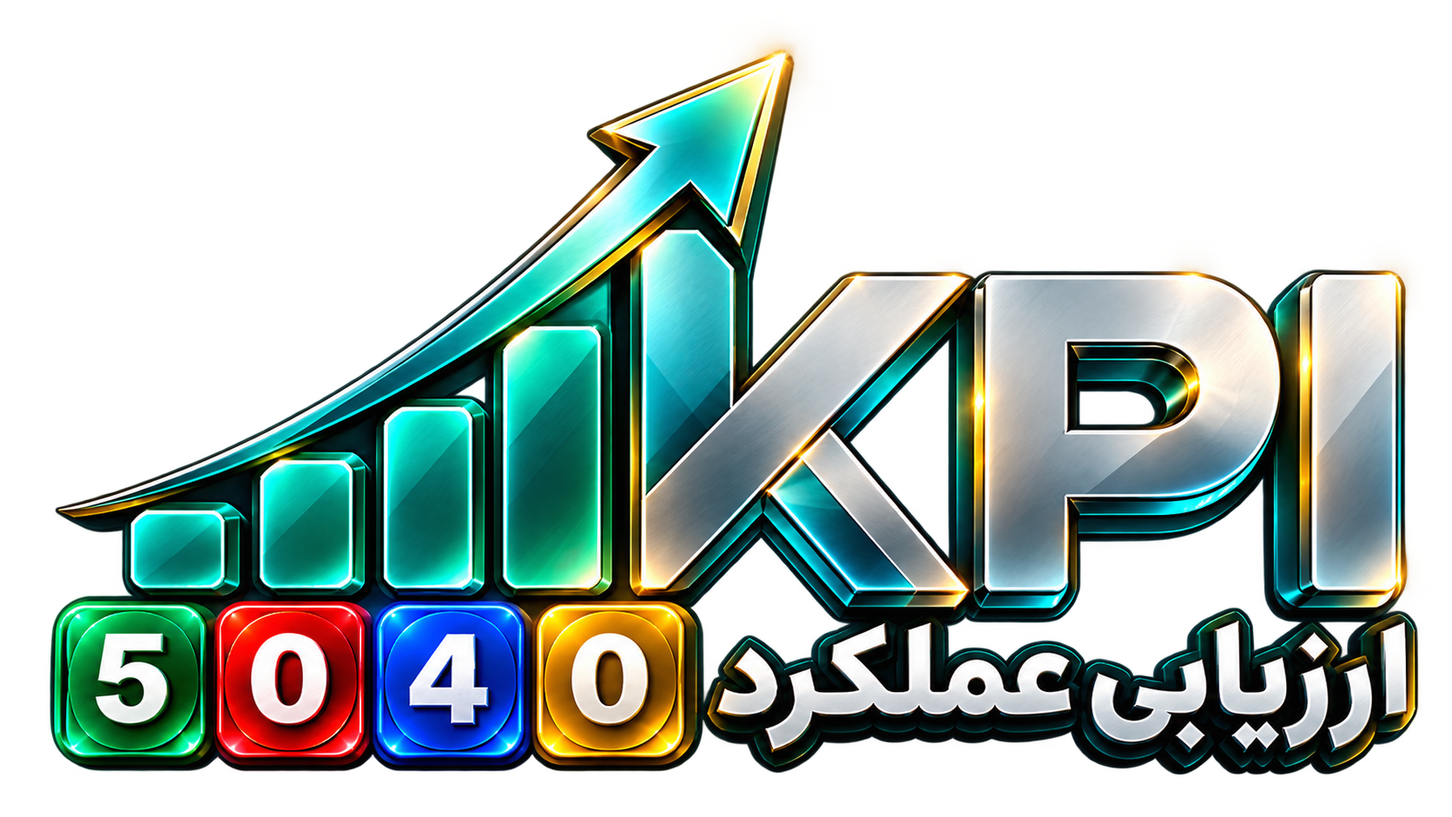
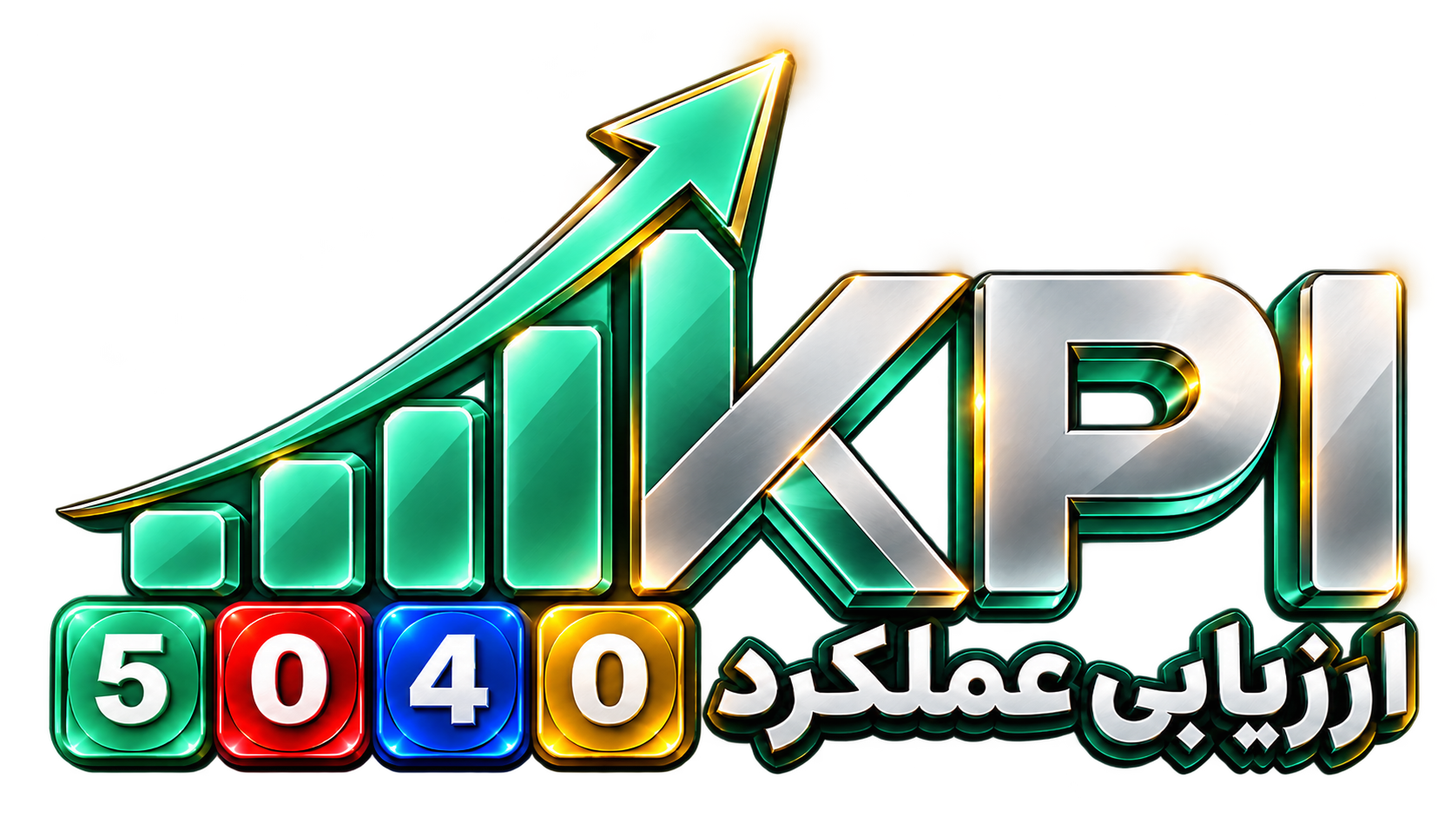
Add peer survey Excel imports and refine panel branding and account layout
Add admin-only peer response imports with previews, confirmation, anonymous storage, quorum checks, rollback and idempotent retries.

Match logo greens to the theme and arrange account provisioning in two responsive three-column rows.

Validation: 65 automated tests, 156 syntax checks, 9 import browser checks, 8 account layout checks and 64 browser regression checks passed using synthetic data.

Changed region(s): [[0.0311, 0.0308, 0.9958, 0.9554], [0.8091, 0.3082, 0.8402, 0.339], [0.5601, 0.339, 0.5913, 0.3698]]

diff --git a/src/account-security-ui.js b/src/account-security-ui.js
@@ -11,14 +11,16 @@
   </div>
   <section id="accountManagement" class="panel settings-card account-security-card" hidden>
    <header class="account-section-heading"><h2>مدیریت حسابهای ورود</h2><p>برای فرد ثبتشده حساب بسازید یا اطلاعات ورود او را ویرایش کنید. صاحب حساب در اولین ورود، رمز موقت را تغییر میدهد.</p></header>
-   <div class="account-defaults"><div><h3>تعریف گروهی حسابها</h3><p>برای افراد فاقد حساب، نام کاربری و رمز موقت اختصاصی ساخته میشود؛ حسابهای موجود و افراد تسویهشده تغییری نمیکنند. اطلاعات ورود در یک فایل قابل دانلود تحویل داده میشود.</p></div><div class="account-default-buttons"><button type="button" id="createDefaultAccounts" class="secondary-button">ایجاد حساب پیشفرض برای همه</button><button type="button" id="downloadDefaultAccounts" class="secondary-button" hidden>دانلود اطلاعات حسابهای ساختهشده</button></div></div>
    <form id="accountProvisionForm">
-    <div class="account-fields">
+    <div class="account-provision-top">
+     <div class="account-defaults"><h3>تعریف گروهی حسابها</h3><div class="account-default-buttons"><button type="button" id="createDefaultAccounts" class="secondary-button">ایجاد حساب پیشفرض برای همه</button><button type="button" id="downloadDefaultAccounts" class="secondary-button" hidden>دانلود اطلاعات حسابهای ساختهشده</button></div><details class="account-defaults-help"><summary>راهنمای تعریف گروهی</summary><p>برای افراد فاقد حساب، نام کاربری و رمز موقت اختصاصی ساخته میشود؛ حسابهای موجود و افراد تسویهشده تغییری نمیکنند. اطلاعات ورود در یک فایل قابل دانلود تحویل داده میشود.</p></details></div>
      <label>انتخاب فرد<select name="userId" required></select></label>
      <label>نام کاربری<input name="username" dir="ltr" autocomplete="off" autocapitalize="none" spellcheck="false" minlength="3" maxlength="128" placeholder="مثلاً user.name" required></label>
-     <label class="account-field-wide">رمز موقت<input name="password" type="password" dir="ltr" autocomplete="new-password" minlength="12" maxlength="128" aria-describedby="accountPasswordHint"><small id="accountPasswordHint">برای حساب جدید، رمز ۱۲ تا ۱۲۸ نویسهای تعیین کنید؛ هنگام ویرایش، برای حفظ رمز فعلی خالی بگذارید.</small></label>
     </div>
-    <div class="account-form-actions"><label class="account-enabled"><input type="checkbox" name="enabled" checked><span>حساب فعال باشد</span></label><button type="submit" class="primary-button">ذخیره حساب</button></div>
+    <div class="account-provision-bottom">
+     <label>رمز موقت<input name="password" type="password" dir="ltr" autocomplete="new-password" minlength="12" maxlength="128" aria-describedby="accountPasswordHint"><small id="accountPasswordHint">برای حساب جدید، رمز ۱۲ تا ۱۲۸ نویسهای تعیین کنید؛ هنگام ویرایش، برای حفظ رمز فعلی خالی بگذارید.</small></label>
+     <label class="account-enabled"><input type="checkbox" name="enabled" checked><span>حساب فعال باشد</span></label><button type="submit" class="primary-button">ذخیره حساب</button>
+    </div>
     <p class="account-delivery-note">رمز موقت را فقط از مسیر امن به صاحب حساب تحویل دهید.</p>
    </form>
    <section class="account-list-section" aria-labelledby="accountListTitle"><h3 id="accountListTitle">حسابهای ثبتشده</h3><p class="account-delivery-note">رمز فعلی قابل نمایش نیست. برای تعیین رمز موقت جدید، «تغییر» را بزنید و رمز جدید را در فرم وارد و ذخیره کنید.</p><div id="accountCredentialsList"></div></section>
@@ -40,7 +42,7 @@
  downloadDefaults.onclick=downloadCredentials;
  defaultsButton.onclick=async()=>{
   if(busy||workflow()?.user?.role!=='hr')return;
-  busy=true;defaultsButton.disabled=true;provision.querySelector('button').disabled=true;const current=version;
+  busy=true;defaultsButton.disabled=true;provision.querySelector('[type=submit]').disabled=true;const current=version;
   status.textContent='در حال ساخت حسابهای فاقد نام کاربری؛ لطفاً منتظر بمانید…';
   try{
    const result=await workflow().post('/api/auth/accounts/defaults',{});if(current!==version)return;
@@ -51,7 +53,7 @@
     try{downloadCredentials();}catch{status.textContent='حسابها ساخته شدند؛ برای دریافت رمزها از دکمه دانلود اطلاعات استفاده کنید.';}
    }
    await refresh();status.textContent=result.created?result.created+' حساب ساخته شد. فایل اطلاعات ورود را نگه دارید و رمز هر فرد را فقط به خود او تحویل دهید؛ پس از خروج یا بارگذاری دوباره، رمزهای موقت در این صفحه قابل دریافت نیستند.':'همهٔ افراد واجد شرایط حساب دارند؛ حساب جدیدی ساخته نشد.';
-  }catch(error){if(current===version)status.textContent=error.message;}finally{busy=false;defaultsButton.disabled=false;provision.querySelector('button').disabled=false;}
+  }catch(error){if(current===version)status.textContent=error.message;}finally{busy=false;defaultsButton.disabled=false;provision.querySelector('[type=submit]').disabled=false;}
  };
  function selectAccount(){const row=rows.find(r=>r.userId===provision.elements.userId.value);provision.elements.username.value=row?.username||'';provision.elements.password.value='';provision.elements.enabled.checked=row?.enabled!==false;}
  provision.elements.userId.onchange=selectAccount;
@@ -72,7 +74,7 @@
  }
  function sessionChanged(){clear();nav.hidden=!workflow()?.user||workflow().demo&&!workflow().canManageAccounts;passwordForm.parentElement.hidden=workflow()?.demo!==false;management.hidden=true;if(workflow()?.mustChangePassword)status.textContent='برای ادامه استفاده از پنل، ابتدا رمز موقت را تغییر دهید.';}
  passwordForm.onsubmit=async event=>{event.preventDefault();if(busy||!passwordForm.reportValidity())return;if(passwordForm.elements.password.value!==passwordForm.elements.confirmation.value){status.textContent='تکرار رمز جدید یکسان نیست.';return;}busy=true;const button=passwordForm.querySelector('button');button.disabled=true;try{await workflow().post('/api/auth/password',{currentPassword:passwordForm.elements.currentPassword.value,password:passwordForm.elements.password.value});passwordForm.reset();status.textContent='رمز تغییر کرد؛ در حال بارگذاری دوباره…';window.location.replace('/');}catch(error){status.textContent=error.message;}finally{busy=false;button.disabled=false;}};
- provision.onsubmit=async event=>{event.preventDefault();if(busy||!provision.reportValidity())return;busy=true;const button=provision.querySelector('button'),userId=provision.elements.userId.value;button.disabled=true;try{await workflow().post('/api/auth/accounts',{userId,username:provision.elements.username.value,enabled:provision.elements.enabled.checked,...(provision.elements.password.value?{password:provision.elements.password.value}:{})});provision.elements.password.value='';if(userId===workflow().user.id&&!workflow().demo){window.location.replace('/login.html');return;}await refresh();status.textContent='حساب ذخیره شد؛ نشستهای شخصی قبلی این فرد دیگر معتبر نیستند.';}catch(error){status.textContent=error.message;}finally{busy=false;button.disabled=false;}};
+ provision.onsubmit=async event=>{event.preventDefault();if(busy||!provision.reportValidity())return;busy=true;const button=provision.querySelector('[type=submit]'),userId=provision.elements.userId.value;button.disabled=true;try{await workflow().post('/api/auth/accounts',{userId,username:provision.elements.username.value,enabled:provision.elements.enabled.checked,...(provision.elements.password.value?{password:provision.elements.password.value}:{})});provision.elements.password.value='';if(userId===workflow().user.id&&!workflow().demo){window.location.replace('/login.html');return;}await refresh();status.textContent='حساب ذخیره شد؛ نشستهای شخصی قبلی این فرد دیگر معتبر نیستند.';}catch(error){status.textContent=error.message;}finally{busy=false;button.disabled=false;}};
  window.addEventListener('panel:session',sessionChanged);window.addEventListener('panel:password-required',sessionChanged);window.addEventListener('panel:view',event=>{if(event.detail==='account-security')refresh();});
  window.PanelAccountSecurity={get working(){return busy;}};
 })();

diff --git a/src/peer-survey-import-ui.js b/src/peer-survey-import-ui.js
@@ -1,0 +1,52 @@
+(() => {
+ const columns=['کد پرسنلی فرد هدف','کد پرسنلی پاسخدهنده','امتیاز'];
+ const esc=value=>String(value??'').replace(/[&<>"']/g,c=>({'&':'&amp;','<':'&lt;','>':'&gt;','"':'&quot;',"'":'&#39;'}[c]));
+ const fa=new Intl.NumberFormat('fa-IR');
+ window.PanelPeerSurveyImport={mount({container,loadExcelLibrary,verifyZip,attachPicker,compactActions,refresh,onBusy}){
+  const panel=document.createElement('section');panel.id='peerSurveyExcelPanel';panel.className='panel settings-card lifecycle-section';panel.hidden=true;
+  panel.innerHTML='<h2>ورود گروهی پاسخهای نظرسنجی همکاران با اکسل</h2><p class="workflow-muted">برای هر پاسخ یک سطر با کد پرسنلی فرد هدف، کد پرسنلی پاسخدهنده و امتیاز ۰ تا ۱۰۰ وارد کنید. ابتدا نظرسنجی را منتشر کنید؛ جامعهٔ مجاز، مهلت و حدنصاب مشارکت مانند ثبت تکی کنترل میشوند. فایل اصلی نگهداری نمیشود.</p><p id="peerImportPeriod" class="formula-note"></p><div class="design-form-actions"><button type="button" class="secondary-button" id="downloadPeerTemplate">دریافت قالب اکسل</button></div><form id="peerExcelForm"><label>فایل پاسخها<input name="file" type="file" accept=".xlsx" required></label><button class="primary-button">اعتبارسنجی و پیشنمایش</button></form><div id="peerExcelResult" role="status" aria-live="polite"></div><div class="design-form-actions"><button type="button" class="primary-button" id="confirmPeerImport" hidden>تأیید ثبت پاسخهای معتبر</button></div><details class="activity-criteria"><summary>آرشیو ورود گروهی پاسخها</summary><div id="peerImportArchive"></div></details>';
+  container.append(panel);
+  attachPicker('peerExcelForm','فایل پاسخها · یک برگه XLSX تا ۲ مگابایت و ۵۰۰ پاسخ','peerExcelFileName','انتخاب اکسل پاسخهای نظرسنجی همکاران');
+  compactActions('downloadPeerTemplate','peerExcelForm','peer-import-actions');
+  const form=panel.querySelector('form'),output=panel.querySelector('#peerExcelResult'),confirm=panel.querySelector('#confirmPeerImport'),archive=panel.querySelector('#peerImportArchive');
+  const api=()=>window.PanelWorkflow,period=()=>document.querySelector('#workflowPeriod').value;
+  let version=0,prepared=null,busy=false;
+  function reset(){version++;prepared=null;confirm.hidden=true;output.replaceChildren();archive.replaceChildren();form.reset();sync();}
+  function sync(){panel.hidden=api()?.user?.role!=='hr';panel.querySelector('#peerImportPeriod').textContent='فصل ورود پاسخها: '+api().quarterLabel(period());}
+  function setBusy(value){busy=value;onBusy(value);for(const control of panel.querySelectorAll('button,input'))control.disabled=value;}
+  const quarantine=rows=>rows.length?'<div class="workflow-table-wrap"><table class="workflow-table"><thead><tr><th>سطر اکسل</th><th>علت ثبتنشدن</th></tr></thead><tbody>'+rows.map(r=>'<tr><td>'+fa.format(r.rowNumber)+'</td><td>'+esc(r.reason)+'</td></tr>').join('')+'</tbody></table></div>':'';
+  async function history(){if(panel.hidden)return;const v=version;try{const rows=await api().api('/api/org/surveys/imports');if(v!==version)return;archive.innerHTML=rows.filter(r=>r.period===period()).map(r=>'<article class="proposal-item"><p>'+esc(r.fileName)+' · '+esc(new Date(r.createdAt).toLocaleString('fa-IR'))+'</p><p>ثبتشده: '+fa.format(r.importedCount)+' · ثبتنشده: '+fa.format(r.quarantined.length)+' · نظرسنجی تکمیلشده: '+fa.format(r.completedCount)+'</p>'+quarantine(r.quarantined)+'</article>').join('')||'<p class="workflow-muted">هنوز فایلی برای این فصل ثبت نشده است.</p>';}catch(e){if(v===version)archive.textContent=e.message;}}
+  panel.querySelector('#downloadPeerTemplate').onclick=async()=>{const v=version;try{const XLSX=await loadExcelLibrary();if(v!==version||panel.hidden)return;const book=XLSX.utils.book_new(),sheet=XLSX.utils.aoa_to_sheet([columns]);sheet['!cols']=[{wch:28},{wch:30},{wch:16}];XLSX.utils.book_append_sheet(book,sheet,'پاسخ نظرسنجی');const url=URL.createObjectURL(new Blob([XLSX.write(book,{bookType:'xlsx',type:'array'})],{type:'application/vnd.openxmlformats-officedocument.spreadsheetml.sheet'})),link=document.createElement('a');link.href=url;link.download='peer-survey-responses-template.xlsx';link.click();setTimeout(()=>URL.revokeObjectURL(url),1000);}catch(e){if(v===version)output.textContent=e.message;}};
+  form.elements.file.addEventListener('change',()=>{version++;prepared=null;confirm.hidden=true;output.replaceChildren();});
+  form.onsubmit=async event=>{
+   event.preventDefault();if(busy||panel.hidden)return;const v=version,at=period(),file=form.elements.file.files[0];prepared=null;confirm.hidden=true;setBusy(true);
+   try{
+    if(!file||!file.name.toLowerCase().endsWith('.xlsx')||file.size>2*1024*1024)throw Error('فقط فایل XLSX تا ۲ مگابایت پذیرفته میشود.');
+    const bytes=new Uint8Array(await file.arrayBuffer());verifyZip(bytes);const XLSX=await loadExcelLibrary();
+    const book=XLSX.read(bytes,{type:'array',cellFormula:true,cellDates:false,sheetRows:502,bookVBA:false});
+    if(book.SheetNames.length!==1)throw Error('فایل باید فقط یک برگه پاسخ داشته باشد.');
+    const sheet=book.Sheets[book.SheetNames[0]],range=XLSX.utils.decode_range(sheet['!fullref']||sheet['!ref']||'A1');
+    if(range.e.r>500||range.e.c>2)throw Error('حداکثر ۵۰۰ پاسخ و دقیقاً سه ستون قالب مجاز است.');
+    if(Object.values(sheet).some(c=>c&&typeof c==='object'&&c.f))throw Error('فرمول مجاز نیست؛ فقط مقدار ثابت وارد کنید.');
+    const data=XLSX.utils.sheet_to_json(sheet,{header:1,raw:false,defval:'',blankrows:true});while(data.length&&data.at(-1).every(v=>!String(v).trim()))data.pop();
+    if(JSON.stringify(data[0]?.map(v=>String(v).trim()))!==JSON.stringify(columns))throw Error('عنوان ستونها با قالب نمونه مطابقت ندارد.');
+    if(data.length<2||data.length>501)throw Error('فایل باید ۱ تا ۵۰۰ پاسخ داشته باشد.');
+    const input={period:at,batchKey:crypto.randomUUID(),fileName:file.name,rows:data.slice(1).map(r=>({targetCode:String(r[0]??'').trim(),respondentCode:String(r[1]??'').trim(),score:String(r[2]??'').trim()}))};
+    if(v!==version||at!==period()||panel.hidden)return;
+    const result=await api().post('/api/org/surveys/import',{...input,preview:true});if(v!==version||at!==period()||panel.hidden)return;
+    output.innerHTML='<p>پاسخ معتبر: '+fa.format(result.importedCount)+' · ثبتنشده: '+fa.format(result.quarantined.length)+' · نظرسنجی: '+fa.format(result.campaignCount)+'</p>'+quarantine(result.quarantined)+'<p class="workflow-muted">هنوز پاسخی ثبت نشده است. با تأیید، فقط پاسخهای معتبر ثبت میشوند.</p>';
+    prepared={...input,fingerprint:result.fingerprint,confirm:true};confirm.hidden=!result.importedCount;
+   }catch(e){if(v===version)output.textContent=e.message;}finally{setBusy(false);}
+  };
+  confirm.onclick=async()=>{
+   if(busy||!prepared||panel.hidden||prepared.period!==period())return;const v=version,input=prepared;setBusy(true);
+   try{const result=await api().post('/api/org/surveys/import',input);if(v!==version||panel.hidden)return;prepared=null;confirm.hidden=true;form.reset();output.innerHTML='<p>ثبتشده: '+fa.format(result.importedCount)+' · ثبتنشده: '+fa.format(result.quarantined.length)+' · نظرسنجی تکمیلشده: '+fa.format(result.completedCount)+'</p>'+quarantine(result.quarantined);await refresh();await history();}
+   catch(e){if(v===version){output.textContent=e.message;/* A lost response can safely retry the same batch. */}}
+   finally{setBusy(false);}
+  };
+  window.addEventListener('panel:session',reset);window.addEventListener('panel:password-required',reset);
+  document.querySelector('#workflowPeriod').addEventListener('change',()=>{reset();if(container.classList.contains('active'))history();});
+  window.addEventListener('panel:view',event=>{sync();if(event.detail==='surveys'&&!panel.hidden)history();});
+  sync();
+ }};
+})();

diff --git a/src/styles.css b/src/styles.css
@@ -1229,6 +1229,30 @@ select option,select optgroup { background: var(--color-select-option); color: v
 #view-account-security .account-defaults p { margin:0; color:var(--color-text-secondary); font-size:var(--text-xs); line-height:1.9; }
 #view-account-security .account-default-buttons { display:flex; gap:10px; flex-wrap:wrap; }
 #view-account-security .account-default-buttons button { white-space:normal; max-width:100%; }
+#view-account-security .account-provision-top,
+#view-account-security .account-provision-bottom { display:grid; grid-template-columns:repeat(3,minmax(0,1fr)); align-items:start; gap:20px; }
+#view-account-security .account-provision-bottom { margin-top:20px; padding-top:18px; border-top:1px solid var(--color-border); }
+#view-account-security .account-provision-top > label,
+#view-account-security .account-provision-bottom > label:not(.account-enabled) { display:flex; flex-direction:column; gap:8px; min-width:0; margin:0; font-size:var(--text-xs); font-weight:600; }
+#view-account-security #accountProvisionForm input:not([type="checkbox"]),
+#view-account-security #accountProvisionForm select { width:100%; min-width:0; max-width:100%; margin:0; box-sizing:border-box; font-weight:400; }
+#view-account-security #accountProvisionForm input[dir="ltr"] { text-align:left; }
+#view-account-security .account-provision-top .account-defaults { display:grid; grid-template-columns:minmax(0,1fr); justify-content:stretch; align-items:start; gap:8px; margin:0; padding:0; border:0; background:none; }
+#view-account-security .account-provision-top .account-defaults h3 { margin:0; font-size:var(--text-xs); font-weight:600; }
+#view-account-security .account-provision-top .account-default-buttons { display:grid; gap:8px; }
+#view-account-security .account-provision-top .account-default-buttons button { width:100%; min-height:42px; }
+#view-account-security .account-defaults-help { color:var(--color-text-secondary); font-size:var(--text-xs); }
+#view-account-security .account-defaults-help summary { cursor:pointer; }
+#view-account-security .account-defaults-help p { margin-top:8px; }
+#view-account-security .account-provision-bottom small { color:var(--color-text-secondary); font-size:var(--text-xs); font-weight:400; line-height:1.8; }
+#view-account-security .account-provision-bottom > .account-enabled { display:flex; flex-direction:row; align-items:center; justify-content:center; gap:9px; min-height:42px; margin:26px 0 0; font-size:var(--text-sm); cursor:pointer; }
+#view-account-security .account-provision-bottom > button { justify-self:start; min-height:42px; margin:26px 0 0; }
+@media(max-width:900px) {
+ #view-account-security .account-provision-top,
+ #view-account-security .account-provision-bottom { grid-template-columns:minmax(0,1fr); gap:16px; }
+ #view-account-security .account-provision-bottom > .account-enabled { justify-content:flex-start; margin:0; }
+ #view-account-security .account-provision-bottom > button { margin:0; }
+}
 @media(max-width:680px) { #view-account-security .account-security-card { padding:18px; } #view-account-security .account-fields { grid-template-columns:minmax(0,1fr); gap:16px; } #view-account-security .workflow-table td,#view-account-security .workflow-table th { padding:10px 8px; } }
 #settlementForm[hidden], #positionForm[hidden] { display:none; }
 #designPublishedPanel .workflow-state[data-status] { display:inline-block; border:1px solid currentColor; color:var(--color-text-secondary); background:var(--color-surface-subtle); line-height:1.7; }

diff --git a/src/lifecycle-ui.js b/src/lifecycle-ui.js
@@ -1350,6 +1350,7 @@ const get=position=>String(row[position]??'').trim(),name=get(0),employeeCode=ge
   attachExcelPicker('personImportForm','فایل پرسنل · XLSX تا ۲ مگابایت و ۱۰۰ سطر','personExcelFileName','انتخاب فایل اکسل پرسنل');
   function compactExcelActions(templateId,formId,className){const actions=document.createElement('div');actions.className='excel-import-actions '+className;const template=$('#'+templateId),wrapper=template.closest('.design-form-actions');wrapper.before(actions);actions.append(template,$('#'+formId));wrapper.remove();}
   compactExcelActions('downloadPersonnelTemplate','personImportForm','personnel-import-actions');compactExcelActions('downloadExamTemplate','examExcelForm','exam-import-actions');
+  window.PanelPeerSurveyImport?.mount({container:$('#view-surveys'),loadExcelLibrary,verifyZip:verifyPersonnelZip,attachPicker:attachExcelPicker,compactActions:compactExcelActions,refresh:()=>refresh({section:'surveys'}),onBusy:value=>{activeWrites+=value?1:-1;}});
   $('#examImportForm').onsubmit=async event=>{event.preventDefault();const form=event.target;if(!form.elements.batchKey.value)renewExamBatchKey();const data=Object.fromEntries(new FormData(form)),rows=[{employeeCode:data.employeeCode.trim(),score:data.score.trim()}],button=form.querySelector('button');button.disabled=true;try{const result=await post('/api/org/exams/import',{quarter:data.quarter,batchKey:data.batchKey,source:'local-json',rows});message(`نتایج واردشده: ${fa.format(result.importedCount)} · قرنطینه: ${fa.format(result.quarantined?.length||0)}`);if(result.importedCount){form.reset();form.elements.quarter.value=data.quarter;fillCommonPeriods();}else renewExamBatchKey();await refresh();}catch(error){message(error.message,true);}finally{button.disabled=false;}};
   $('#examExcelForm').onsubmit=async event=>{
     event.preventDefault();const form=event.target,file=form.elements.file.files[0],button=form.querySelector('button'),output=$('#examExcelResult');try{

diff --git a/index.html b/index.html
@@ -63,11 +63,11 @@
       <div class="sidebar-resizer" id="sidebarResizer" role="separator" aria-label="تغییر عرض نوار کناری" aria-orientation="vertical" aria-valuemin="230" aria-valuemax="310" aria-valuenow="258" tabindex="0" title="برای تغییر عرض بکشید؛ دوبار کلیک برای بازنشانی"></div>
       <div class="sidebar-header">
         <div class="brand">
-          <img class="brand-art" src="src/assets/kpi-analytics-emblem.png?v=6820079875ad" alt="KPI، ارزیابی عملکرد، هلدینگ ۵۰۴۰" width="1672" height="941" />
+          <img class="brand-art" src="src/assets/kpi-analytics-emblem.png?v=7c3a3c587b20" alt="KPI، ارزیابی عملکرد، هلدینگ ۵۰۴۰" width="1672" height="941" />
         </div>
         <button class="sidebar-toggle" id="sidebarToggle" type="button" aria-label="بستن نوار کناری" aria-expanded="true" aria-controls="sidebar" title="بستن نوار کناری">
           <svg class="sidebar-panel-icon" aria-hidden="true"><use href="#i-sidebar-panel"/></svg>
-          <img class="sidebar-open-mark" src="src/assets/kpi-growth-collapsed.png?v=cda1a83e34ae" alt="" aria-hidden="true" width="1374" height="1145" />
+          <img class="sidebar-open-mark" src="src/assets/kpi-growth-collapsed.png?v=50d3941fdd71" alt="" aria-hidden="true" width="1374" height="1145" />
         </button>
       </div>
 
@@ -231,6 +231,7 @@
   <script src="src/workflow-ui.js"></script>
   <script src="src/persian-money.js"></script>
   <script src="src/persian-date-picker.js"></script>
+  <script src="src/peer-survey-import-ui.js"></script>
   <script src="src/lifecycle-ui.js"></script>
   <script src="src/score-settings-ui.js"></script>
   <script src="src/ai-log-ui.js"></script>

diff --git a/login.html b/login.html
@@ -17,7 +17,7 @@
   <div class="login-atmosphere" aria-hidden="true"></div>
   <main class="login-layout">
     <section class="login-card" aria-labelledby="loginTitle">
-      <img class="login-logo" src="src/assets/kpi-analytics-emblem.png" alt="KPI ارزیابی عملکرد 5040" width="270" height="145">
+      <img class="login-logo" src="src/assets/kpi-analytics-emblem.png?v=7c3a3c587b20" alt="KPI ارزیابی عملکرد 5040" width="270" height="145">
       <h1 id="loginTitle">ورود به پنل <bdi>KPI</bdi></h1>
       <p class="login-holding">هلدینگ <bdi>5040</bdi></p>
       <p class="login-welcome">به سیستم ارزیابی عملکرد خوش آمدید</p>

diff --git a/docs/PEER_SURVEY_IMPORT.md b/docs/PEER_SURVEY_IMPORT.md
@@ -1,0 +1,23 @@
+# ورود گروهی پاسخ نظرسنجی همکاران
+
+این قابلیت فقط در پنل مستقل فصلی و برای ادمین است؛ امتیاز نظر مدیر را تغییر نمیدهد. کارت «ورود گروهی پاسخهای نظرسنجی همکاران با اکسل» در نظرسنجی پرسنل، قالب XLSX، پیشنمایش، تأیید ثبت و آرشیو خلاصه دارد.
+
+## قالب و گردش
+
+یک برگه، سه ستون دقیق «کد پرسنلی فرد هدف»، «کد پرسنلی پاسخدهنده»، «امتیاز». حداکثر ۵۰۰ پاسخ، فایل فشرده تا ۲ مگابایت و حجم بازشده تا ۸ مگابایت با کنترل ساختار ZIP. فرمول، برگه اضافی و ستون اضافی رد میشوند. فصل از انتخابگر جاری پنل گرفته و قبل از ثبت نمایش داده میشود. اعداد فارسی و عربی و کدهای متنی قابل استفادهاند؛ کد دارای صفر ابتدایی باید در اکسل بهصورت متن حفظ شود.
+
+ادمین ابتدا کمپین فرد هدف را منتشر میکند. اعتبارسنجی و پیشنمایش هیچ پاسخی ثبت نمیکند. تأیید فقط سطرهای معتبر را وارد میکند؛ سطرهای دیگر همراه شماره واقعی سطر و علت در نتیجه و آرشیو خلاصه میمانند. پاسخ تکراری بازنویسی نمیشود. تلاش مجدد همان بسته بعد از قطع ارتباط، بدون رأی یا آرشیو تکراری همان پاسخ قبلی را برمیگرداند.
+
+## کنترل ها
+
+کمپین باید برای همان فرد و فصل، یکتا، منتشرشده، باز و در مهلت پاسخ باشد. جامعه پاسخدهندگان همان تابع ثبت تکی است: پرسنل یا مدیر مجازِ واحد دیگر با سمت معتبر، بدون پاسخ خود فرد یا فرد تسویهشده. کد مفقود، ناشناخته یا غیر یکتا، امتیاز خالی/غیرعددی/خارج صفر تا صد و رأی تکراری رد میشوند. قفل فصل و بستن سمت مانعاند. این قابلیت سهم نظرسنجی در مدل یا حداقل مشارکت و حداقل سه پاسخ مستقل را دور نمیزند.
+
+تمام پاسخهای معتبر فایل قبل از تجمیع ثبت میشوند؛ کمپین در میانه فایل به علت رسیدن به حدنصاب بسته نمیشود. سپس همان تابع بستن و تجمیع موجود فقط برای کمپینهایی که حدنصابشان تأمین شده اجرا میشود. در مشارکت ناکافی، کمپین باز میماند و امتیاز نهایی ساخته نمیشود. رأی تکی و گروهی از یک دفتر کنترل تکرار استفاده میکنند.
+
+پیشنمایش با fingerprint مبتنی بر HMAC به محتوای فایل، کمپینها و رأیهای جاری متصل است. تأیید مجدد، همه کنترلها را در تراکنش تکرار میکند. تغییر رأیها یا وضعیت پس از پیشنمایش، ثبت قدیمی را رد میکند. خطای ذخیره، رأیها، تجمیع، آرشیو و audit را با هم برمیگرداند. محدودیت سمت سرور ۵۰۰ سطر و بدنه ۵۱۲ کیلوبایت است؛ بررسی مرورگر جای کنترل سرور نیست.
+
+## حریم خصوصی
+
+فایل خام و جدول هویت به امتیاز ذخیره نمیشود. دفتر رأی صرفاً توکن HMAC فرد را دارد و پاسخها بدون شناسه پاسخدهنده، شماره سطر یا شناسه بسته ذخیره میشوند. ترتیب توکنها و امتیازها مستقل تصادفی و زمان ثبت یک بسته مشترک است. hash محتوای ورودی نیز HMAC است تا از بازسازی ساده رأیها جلوگیری شود. آرشیو فقط نام فایل، فصل، تعداد، وضعیت و سطرهای ردشده با علت دارد؛ کد پاسخدهنده و نمره فردی در آن نگهداری نمیشود. API آرشیو و ورود فقط برای ادمین است و محتوای رابط پس از تغییر نقش یا فصل پاک میشود.
+
+آزمونها فقط با افراد و رأیهای ساختگی انجام شدهاند؛ هیچ رأی واقعی برای فعالسازی وارد نشده است.

diff --git a/PROJECT_CONTEXT.md b/PROJECT_CONTEXT.md
@@ -12,7 +12,7 @@
 
 ## اعتبارسنجی
 
-`npm test`: 57 آزمون موفق. `npm run check`: 153 فایل JavaScript معتبر.
+`npm test`: 65 آزمون موفق. `npm run check`: 156 فایل JavaScript معتبر.
 مرورگر با دادهٔ ساختگی: 64 کنترل، شامل مسیرهای سه نقش/دو عرض و لغو و تأیید پیشنمایش تسویه؛ صفر خطای اجرا، درخواست ناموفق و سرریز؛ شواهد `outputs/quarterly-browser/report.json`.
 تستهای ماهانهٔ موروثی در `test:legacy` برای مرجع حفظ شدهاند و معیار پذیرش پروژهٔ فصلی نیستند.
 اتصال واقعی Codex با ورود تازه در مسیر مستقل پروژه فعال شده است؛ جزئیات آزمون زنده در بخش بعدی آمده است.
@@ -48,3 +48,13 @@
 ## ثبت گذشته در فصل جاری — 2026-11-04
 
 موعد و شواهد گذشتهٔ داخل فصل پذیرفتهاند. تاریخ واردسازی اولیهٔ سمتها مانع ثبت کار از ابتدای فصل واردسازی نیست؛ تاریخ شروع مالی، استخدام واقعی، انتقال و قفلها تغییر نکردهاند. فرم روتین تاریخ صریح اختیاری دارد؛ AI بازهٔ مجاز و سیاست نسخهبندیشده میگیرد. مهلتهای بستن ارسال/اصلاح داخل همان فصل مانع نیستند؛ سهمیه و کسر تأخیر پیکربندیشده برقرار است. جزئیات و مرزها در `docs/QUARTERLY_PROJECT.md` و شواهد آزمون ساختگی در `outputs/retro-quarter` است. دادهٔ اصلی مهاجرت نشده و مدل زنده در این مرحله آزموده نشده است.
+
+## ورود گروهی پاسخ نظرسنجی همکاران — 2026-11-07
+
+ادمین در نظرسنجی پرسنل میتواند قالب سهستونی XLSX را دریافت، فایل حداکثر ۵۰۰ پاسخ را پیشنمایش و فقط پاسخهای معتبر را تأیید کند. جامعه مجاز، تکرار رأی تکی/گروهی، حدنصاب سه پاسخ و مشارکت، مهلت، قفل فصل و بستن سمت کنترل میشوند. تمام پاسخهای معتبر فایل پیش از تجمیع وارد میشوند؛ رسیدن به حدنصاب در میانه فایل بقیه پاسخها را حذف نمیکند. پیشنمایش نسخهدار، تراکنش کامل و شناسه بسته مانع ثبت کهنه یا تکراری است. فایل خام و ارتباط هویت با نمره ذخیره نمیشود؛ آرشیو فقط خلاصه و شماره سطرهای ردشده را دارد. جزئیات: `docs/PEER_SURVEY_IMPORT.md`.
+
+65 آزمون خودکار، 156 کنترل نحو، 9 کنترل مرورگر اختصاصی XLSX و 64 کنترل رگرسیون سه نقش/دو عرض با داده ساختگی موفقاند. هیچ رأی واقعی در آزمون ثبت نشده است.
+
+## اصلاح ظاهر لوگو و مدیریت حساب — 2026-11-07
+
+بخشهای سبز لوگوی اصلی و آیکون جمعشده با سبز تم هماهنگ و نسخهٔ کش تصاویر تازه شد؛ نمایش روز، شب، ورود و منوی جمعشده بررسی شد. فرم مدیریت حساب در دسکتاپ دو ردیف سهستونی دارد: تعریف گروهی/انتخاب فرد/نام کاربری و رمز موقت/وضعیت فعال/ذخیره. باکس تعریف گروهی تمام عرض ستون را میگیرد و در موبایل عناصر زیر هم قرار میگیرند. توضیح ساخت گروهی در راهنمای بازشونده حفظ شده است. انتخابگر دکمه ذخیره با انتقال دکمه گروهی به داخل فرم صریحاً به submit محدود شد. هشت کنترل مرورگر در دو تم و سه عرض، همراه ویرایش/ذخیره و ساخت گروهی حسابهای ساختگی موفق است؛ داده حسابهای اصلی تغییر نکرده است.
